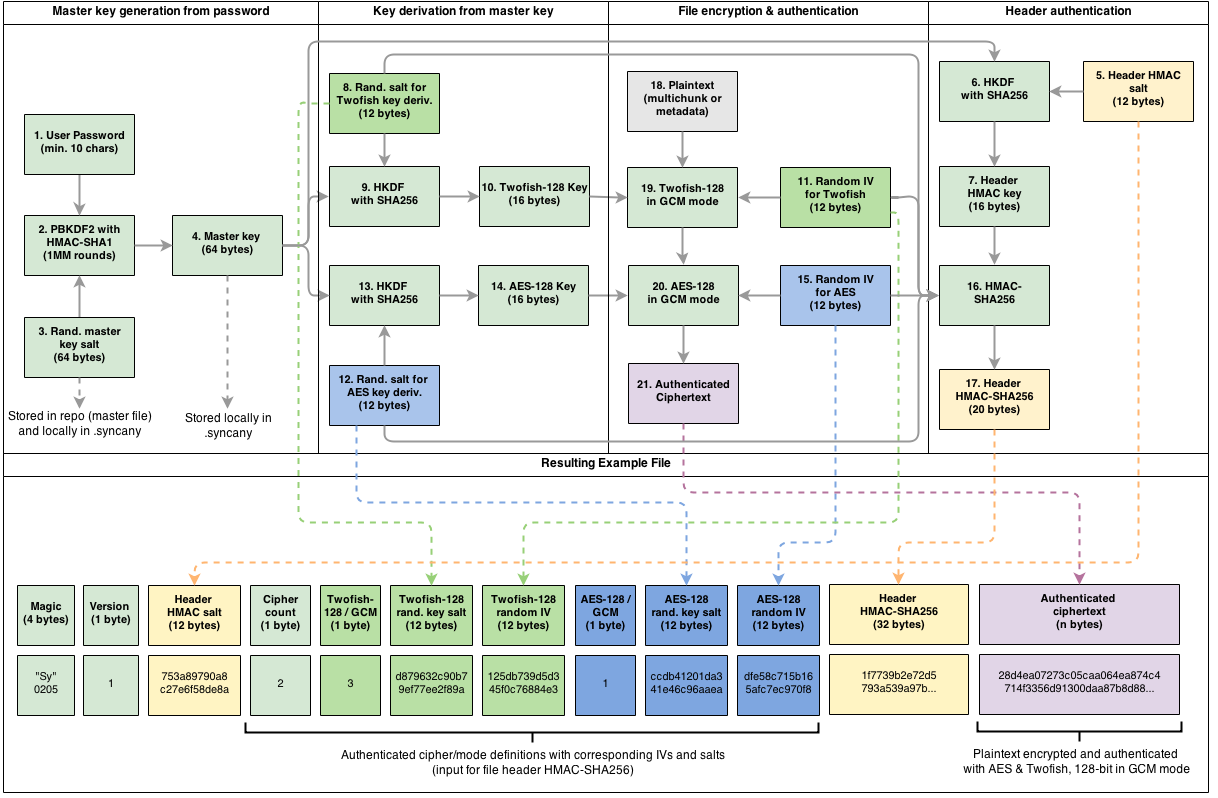
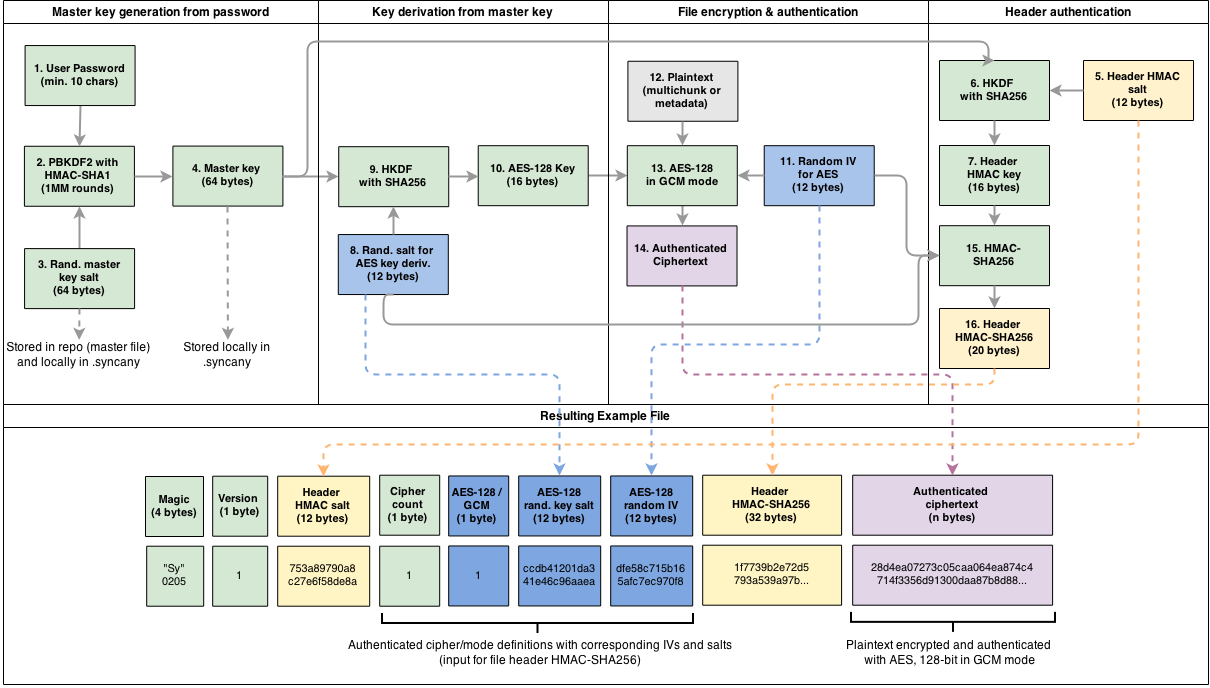
Updating text and diagrams to conform to new default (1 cipher)

diff --git a/source/security.rst b/source/security.rst
@@ -36,9 +36,9 @@ When a user creates a new repository using ``sy init``, Syncany asks the user fo
 
 Encrypting new Files
 """"""""""""""""""""
-Whenever new files have to be uploaded, Syncany encrypts these files with **128-bit AES/GCM and Twofish/GCM** using the crypto scheme and file format described below (8-21). File encryption happens with every file that is uploaded (except the ``master`` file): For instance, during the file index process in ``sy up``, Syncany packages new/unknown chunks into multichunks (= ZIP files containing many chunks) and creates a new database file (= metadata). These files are encrypted using the the following scheme:
+Whenever new files have to be uploaded, Syncany encrypts these files with **128-bit AES/GCM** using the crypto scheme and file format described below (8-16). File encryption happens with every file that is uploaded (except the ``master`` file): For instance, during the file index process in ``sy up``, Syncany packages new/unknown chunks into multichunks (= ZIP files containing many chunks) and creates a new database file (= metadata). These files are encrypted using the the following scheme:
 
-In the default configuration, Syncany uses two nested ciphers: It uses AES in GCM mode to encrypt the actual plaintext, and then encrypts the AES ciphertext with Twofish in GCM mode. As of today, Syncany can theoretically nest any authenticated cipher that is supported by the Bouncy Castle Cryptography Provider, but only Twofish/GCM and AES/GCM (both 128-bit or 256-bit) are allowed by Syncany. 
+In the default configuration, Syncany uses one cipher. However, Syncany also supports nesting of ciphers. In this setup, the plaintext is encrypted with the first cipher, and every additional cipher is applied to the ciphertext of the previous cipher. This setup has relatively little research behind it, but we have decided to keep it for the more paranoid users. As of today, Syncany can theoretically nest any authenticated cipher that is supported by the Bouncy Castle Cryptography Provider, but only Twofish/GCM and AES/GCM (both 128-bit or 256-bit) are allowed by Syncany. If you are considering a nested cipher setup, we recommend first switching to **256-bit AES/GCM**. 
 
 .. image:: _static/security_crypto_example.png
    :align: center
@@ -46,11 +46,11 @@ In the default configuration, Syncany uses two nested ciphers: It uses AES in GC
 
 |
 
-The diagram shows an example for the default configuration: For each file to be encrypted, Syncany uses **HKDF with SHA-256** and a **random 96-bit salt** to derive a **128-bit file key** to use for the Twofish cipher (8-10), and another **128-bit file key** using the same scheme for the AES cipher (12-14). In addition to that, two **128-bit random IVs** are created and used as input for the two ciphers (11/15). Using the 128-bit key and the 128-bit IV, Syncany then encrypts plaintext (= multichunk file, database file, etc.) using the AES cipher in GCM mode, and then takes the output to do the same with Twofish in GCM mode.
+The diagram shows an example for the default configuration: For each file to be encrypted, Syncany uses **HKDF with SHA-256** and a **random 96-bit salt** to derive a **128-bit file key** to use for the AES cipher (8-10). In addition to that, a **128-bit random IV** is created and used as input for the cipher (11). Using the 128-bit key and the 128-bit IV, Syncany then encrypts plaintext (= multichunk file, database file, etc.) using the AES cipher in GCM mode.
 
 To reduce improve encryption/decryption performance, Syncany **re-uses file keys up to 100 times** -- meaning that up to 100 multichunks or database files are encrypted with the same key. Given that the maximum file size for multichunks is about 4 MB, max. 400 MB might be encrypted with the same key -- although typically it's much less. **IVs are never re-used!**
 
-The salts and IVs as well as the cipher configuration itself (here: AES/GCM+Twofish/GCM) is stored in the file header of the crypto file format. Since this information is required to decrypt the files, they are unencrypted. However, to avoid an attack on the clients through header tampering, the header is authenticated using an **HMAC with SHA-256**, using **a 128-bit header key** derived from the master key and a random **96-bit header salt**.
+The salts and IVs as well as the cipher configuration itself (here: AES/GCM) is stored in the file header of the crypto file format. Since this information is required to decrypt the files, they are unencrypted. However, to avoid an attack on the clients through header tampering, the header is authenticated using an **HMAC with SHA-256**, using **a 128-bit header key** derived from the master key and a random **96-bit header salt**.
 
 .. image:: _static/security_crypto_format.png
    :align: center
